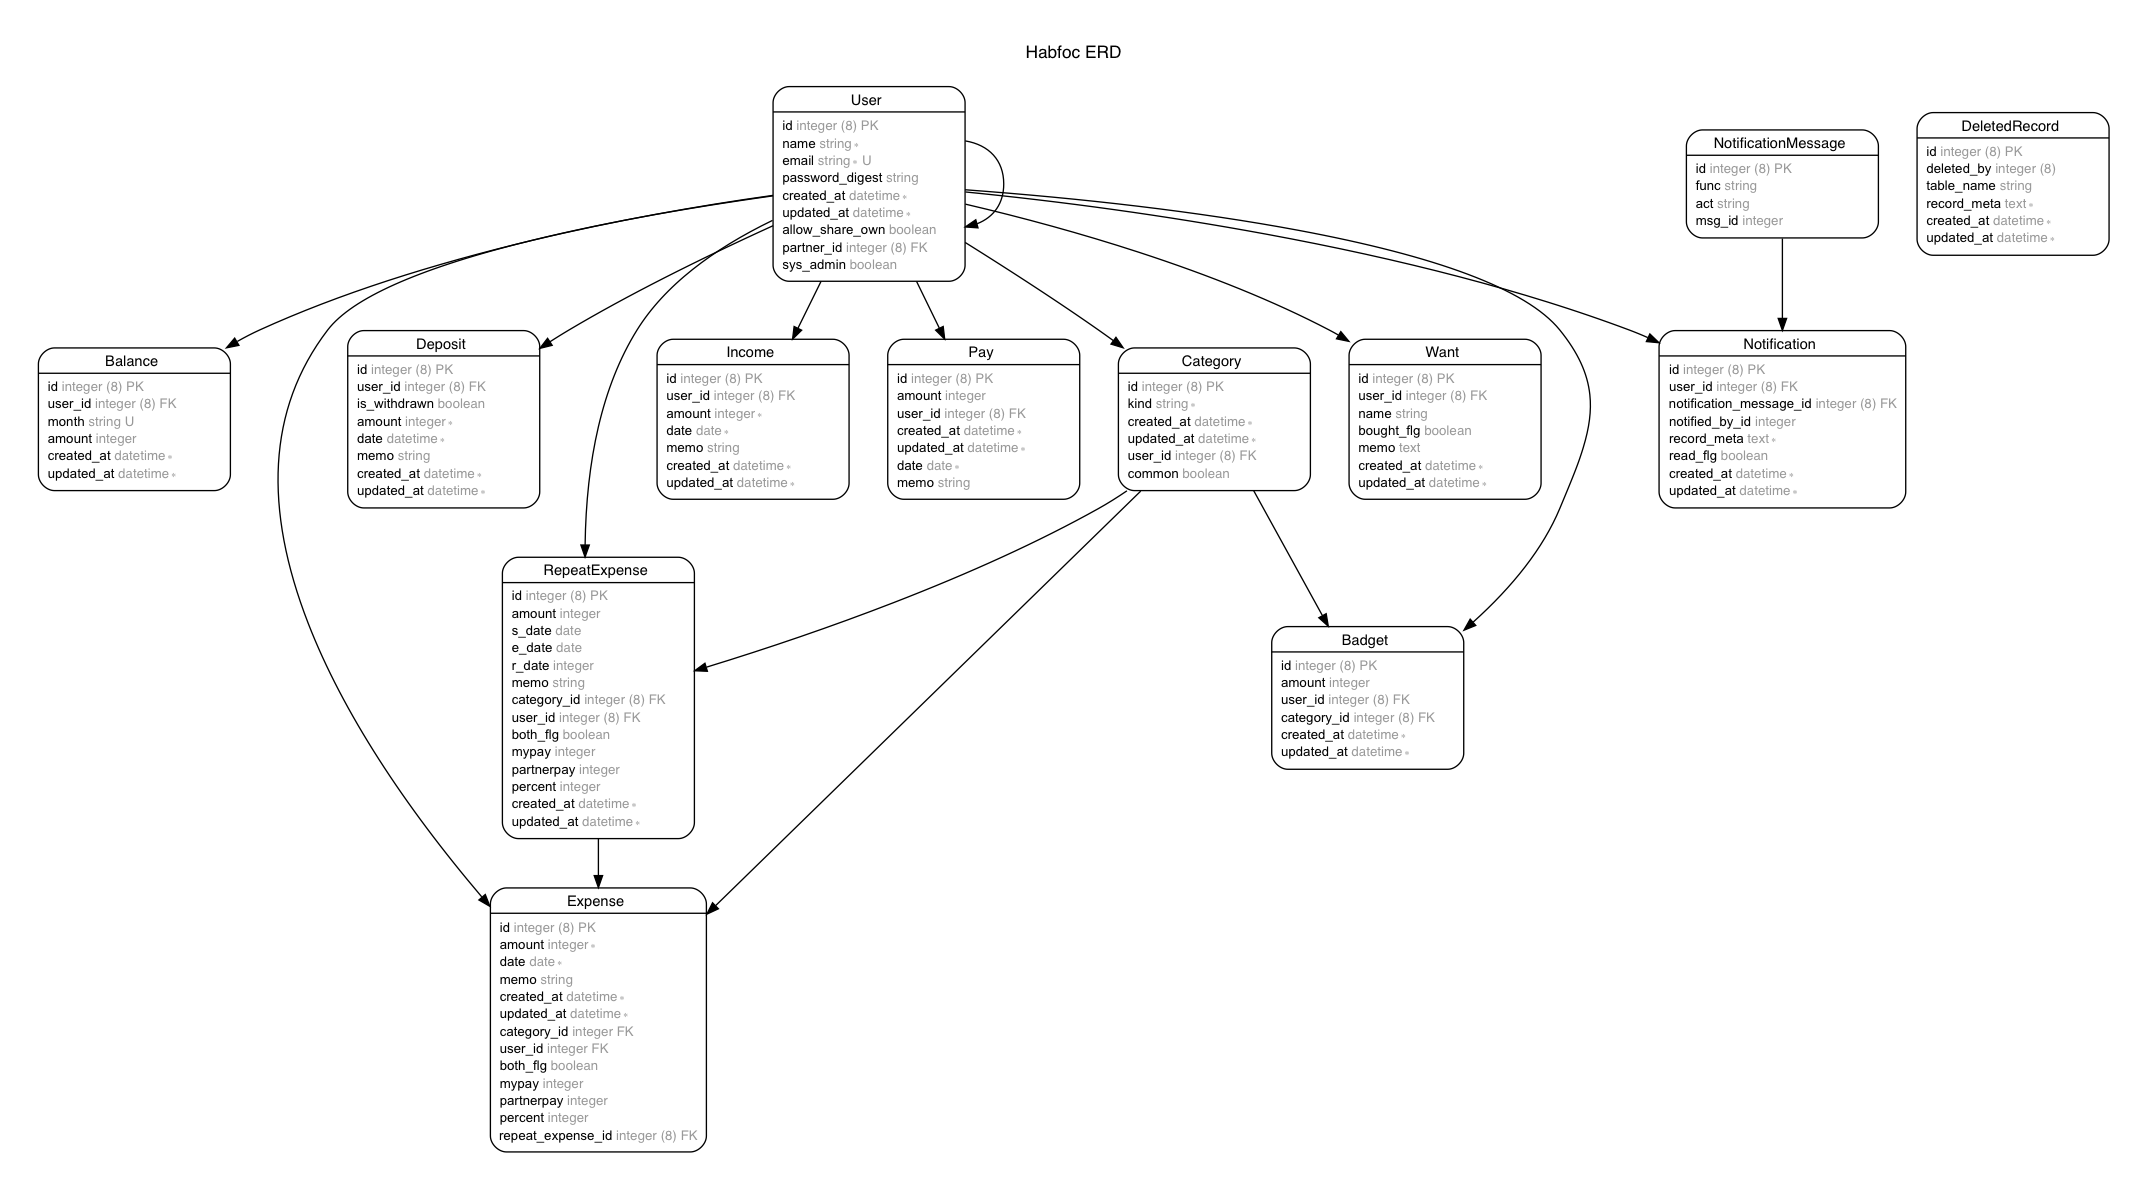
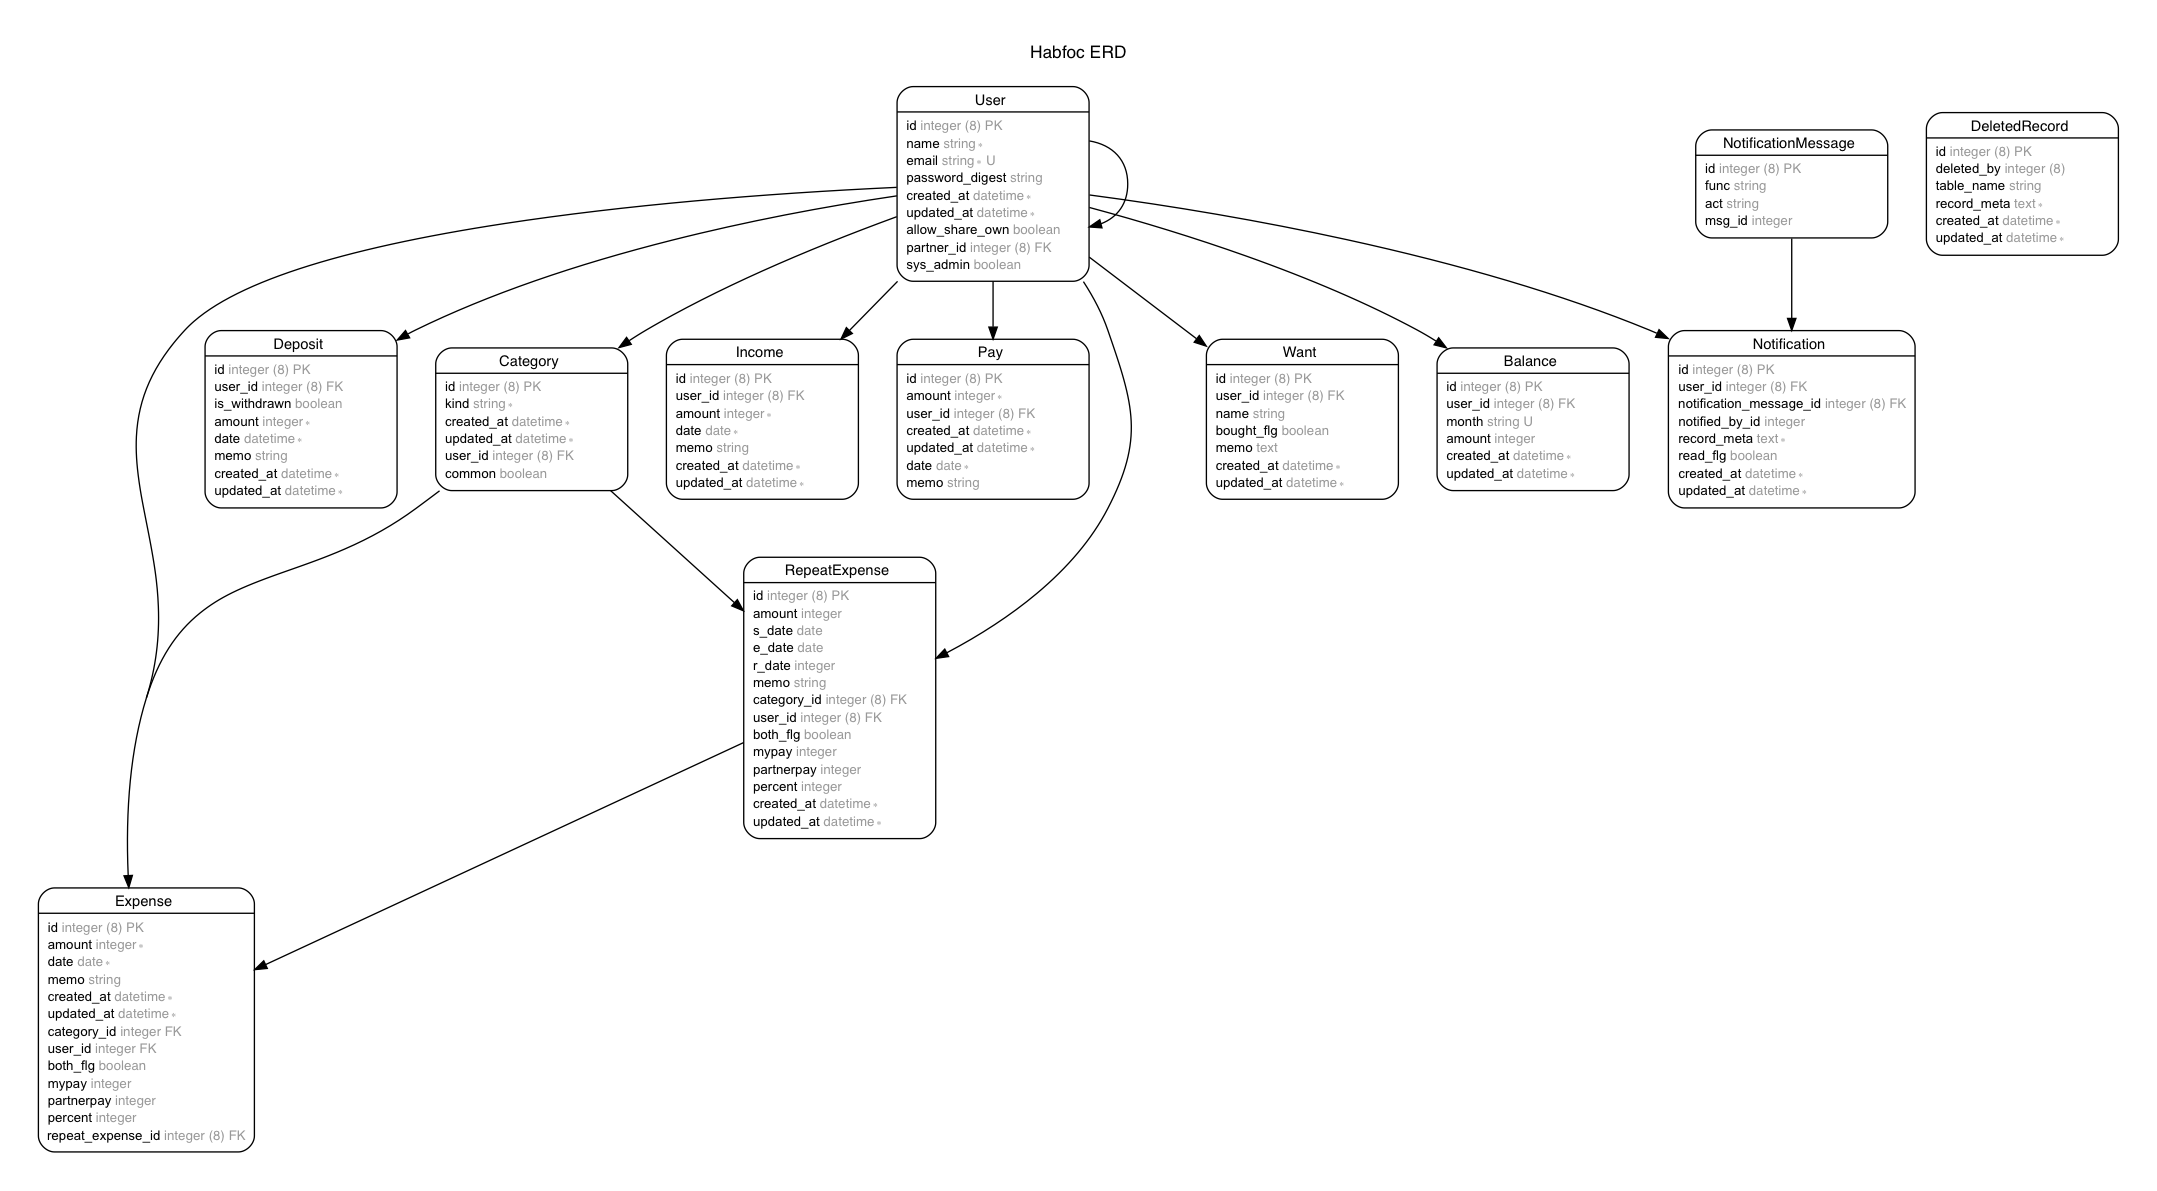
budgetにリネーム Closes #134

diff --git a/db/schema.rb b/db/schema.rb
@@ -10,20 +10,10 @@
 #
 # It's strongly recommended that you check this file into your version control system.
 
-ActiveRecord::Schema.define(version: 2019_04_06_000013) do
+ActiveRecord::Schema.define(version: 2019_04_21_130214) do
 
   # These are extensions that must be enabled in order to support this database
   enable_extension "plpgsql"
-
-  create_table "badgets", force: :cascade do |t|
-    t.integer "amount"
-    t.bigint "user_id"
-    t.bigint "category_id"
-    t.datetime "created_at", null: false
-    t.datetime "updated_at", null: false
-    t.index ["category_id"], name: "index_badgets_on_category_id"
-    t.index ["user_id"], name: "index_badgets_on_user_id"
-  end
 
   create_table "balances", force: :cascade do |t|
     t.bigint "user_id"
@@ -33,6 +23,16 @@ ActiveRecord::Schema.define(version: 2019_04_06_000013) do
     t.datetime "updated_at", null: false
     t.index ["user_id", "month"], name: "index_balances_on_user_id_and_month", unique: true
     t.index ["user_id"], name: "index_balances_on_user_id"
+  end
+
+  create_table "budgets", force: :cascade do |t|
+    t.integer "amount"
+    t.bigint "user_id"
+    t.bigint "category_id"
+    t.datetime "created_at", null: false
+    t.datetime "updated_at", null: false
+    t.index ["category_id"], name: "index_budgets_on_category_id"
+    t.index ["user_id"], name: "index_budgets_on_user_id"
   end
 
   create_table "categories", force: :cascade do |t|
@@ -160,9 +160,9 @@ ActiveRecord::Schema.define(version: 2019_04_06_000013) do
     t.index ["user_id"], name: "index_wants_on_user_id"
   end
 
-  add_foreign_key "badgets", "categories"
-  add_foreign_key "badgets", "users"
   add_foreign_key "balances", "users"
+  add_foreign_key "budgets", "categories"
+  add_foreign_key "budgets", "users"
   add_foreign_key "categories", "users"
   add_foreign_key "deleted_records", "users", column: "deleted_by"
   add_foreign_key "deposits", "users"

diff --git a/app/controllers/budgets_controller.rb b/app/controllers/budgets_controller.rb
@@ -1,0 +1,61 @@
+class BudgetsController < ApplicationController
+  before_action :set_all_categories, only:[:new, :edit]
+  before_action :set_budget, only: [:edit, :update]
+
+  def index
+    @categories = current_user.categories.or(partner.categories.common_t).includes(:budgets).order(:id)
+    @budgets = current_user.budgets.order(category_id: :asc)
+  end
+
+  def new
+    @budget = Budget.new
+  end
+
+  def create
+    @budget = current_user.budgets.new(budget_params)
+    check = Budget.find_by(user_id: current_user.id, category_id: params[:category_id])
+    if check.present?
+      @budget.errors[:base] << "同じカテゴリに２つの予算を設定できません。予算を編集してください。"
+      set_all_categories
+      render 'new'
+    end
+
+    if @budget.save
+      find_budget_category
+      redirect_to budgets_path, notice: "#{@category.kind}の予算を#{@budget.amount}円に設定しました"
+    else
+      set_all_categories
+      render 'new'
+    end
+  end
+
+  def edit
+  end
+
+  def update
+    if @budget.update(budget_params)
+      find_budget_category
+      redirect_to budgets_path, notice: "#{@category.kind}の予算を#{@budget.amount}円に設定しました"
+    else
+      set_all_categories
+      render 'edit'
+    end
+  end
+
+private
+  def set_all_categories
+    @categories = current_user.categories.or(partner.categories.common_t)
+  end
+
+  def budget_params
+    params.require(:budget).permit(:category_id, :amount)
+  end
+
+  def set_budget
+    @budget = Budget.find(params[:id])
+  end
+
+  def find_budget_category
+    @category = Category.find(@budget.category_id)
+  end
+end

diff --git a/app/helpers/expenses_helper.rb b/app/helpers/expenses_helper.rb
@@ -63,8 +63,8 @@ module ExpensesHelper
   end
 
   # カテゴリ別予算残高の表示順を指定する
-  def ordered_badget(user)
-    user.badgets.order(category_id: :asc)
+  def ordered_budget(user)
+    user.budgets.order(category_id: :asc)
   end
 
   # カテゴリ別支出合計を計算
@@ -84,14 +84,14 @@ module ExpensesHelper
   end
 
   # カテゴリ別予算残高の計算
-  def category_balance(badget, category, user_expenses, partner_expenses)
+  def category_balance(budget, category, user_expenses, partner_expenses)
     # そのカテゴリの自分の出費の合計
     user_category_expenses_sum = user_expenses.both_f.where(category_id: category.id).sum(:amount)
     # 二人の出費の内、そのカテゴリの自分の払う金額の合計
     mypays_sum_of_both = user_expenses.both_t.where(category_id: category.id).sum(:mypay)
     # 相手が記入した二人の出費の内、そのカテゴリの自分の払う金額の合計
     partnerpays_sum_of_both = partner_expenses.where(category_id: category.id).sum(:partnerpay)
-    badget.amount.to_i - user_category_expenses_sum - mypays_sum_of_both - partnerpays_sum_of_both
+    budget.amount.to_i - user_category_expenses_sum - mypays_sum_of_both - partnerpays_sum_of_both
   end
 
 end

diff --git a/app/helpers/budgets_helper.rb b/app/helpers/budgets_helper.rb
@@ -1,4 +1,4 @@
-module BadgetsHelper
+module BudgetsHelper
   # 予算が未入力のカテゴリを抽出
   def make_left_categories(categories)
     all_categories = Hash.new
@@ -6,17 +6,17 @@ module BadgetsHelper
       all_categories[category.kind] = category.id
     end
     left_categories = all_categories
-    unless Badget.find_by(user_id: current_user.id).present?
+    unless Budget.find_by(user_id: current_user.id).present?
       return left_categories
     end
-    badgets = current_user.badgets
-    badget_categories = Array.new
-    badgets.each do |badget|
-      category = badget.category.kind
-      badget_categories << category
+    budgets = current_user.budgets
+    budget_categories = Array.new
+    budgets.each do |budget|
+      category = budget.category.kind
+      budget_categories << category
     end
 
-    badget_categories.each do |category_kind|
+    budget_categories.each do |category_kind|
       left_categories.delete(category_kind)
     end
 

diff --git a/db/seeds.rb b/db/seeds.rb
@@ -13,7 +13,7 @@ end
 
 # tables = [Category, RepeatExpense, Expense]
 puts "starding - #{__FILE__}"
-tables = [Category, Badget, RepeatExpense, Expense, Pay, Want, NotificationMessage, Notification, DeletedRecord]
+tables = [Category, Budget, RepeatExpense, Expense, Pay, Want, NotificationMessage, Notification, DeletedRecord]
 
 tables.map(&:table_name).reverse.each do |table|
   delete_all_and_reset_pk_sequence(table)
@@ -40,9 +40,9 @@ end
 #   Category.create!(data.to_hash)
 # end
 #
-# csv_data = CSV.read('db/badgets.csv', headers: true)
+# csv_data = CSV.read('db/budgets.csv', headers: true)
 # csv_data.each do |data|
-#   Badget.create!(data.to_hash)
+#   Budget.create!(data.to_hash)
 # end
 #
 # csv_data = CSV.read('db/repeat_expenses.csv', headers: true)

diff --git a/app/models/budget.rb b/app/models/budget.rb
@@ -1,6 +1,6 @@
 # ## Schema Information
 #
-# Table name: `badgets`
+# Table name: `budgets`
 #
 # ### Columns
 #
@@ -15,9 +15,9 @@
 #
 # ### Indexes
 #
-# * `index_badgets_on_category_id`:
+# * `index_budgets_on_category_id`:
 #     * **`category_id`**
-# * `index_badgets_on_user_id`:
+# * `index_budgets_on_user_id`:
 #     * **`user_id`**
 #
 # ### Foreign Keys
@@ -28,7 +28,7 @@
 #     * **`user_id => users.id`**
 #
 
-class Badget < ApplicationRecord
+class Budget < ApplicationRecord
   belongs_to :user
   belongs_to :category
 

diff --git a/app/models/user.rb b/app/models/user.rb
@@ -43,7 +43,7 @@ class User < ApplicationRecord
   belongs_to :partner, class_name: 'User', optional: true
   has_many :expenses, dependent: :destroy
   has_many :repeat_expenses, dependent: :destroy
-  has_many :badgets, dependent: :destroy
+  has_many :budgets, dependent: :destroy
   has_many :categories, dependent: :destroy
   has_many :pays, dependent: :destroy
   has_many :wants, dependent: :destroy

diff --git a/app/controllers/admin_controller.rb b/app/controllers/admin_controller.rb
@@ -40,7 +40,7 @@ class AdminController < ApplicationController
 
   def delete_all_data
     current_user.notifications.try(:destroy_all)
-    current_user.badgets.try(:destroy_all)
+    current_user.budgets.try(:destroy_all)
     current_user.wants.try(:destroy_all)
     current_user.pays.try(:destroy_all)
     current_user.deposits.try(:destroy_all)

diff --git a/db/migrate/20180204083633_create_badgets.rb b/db/migrate/20180204083633_create_badgets.rb
@@ -1,6 +1,6 @@
-class CreateBadgets < ActiveRecord::Migration[5.1]
+class Createbudgets < ActiveRecord::Migration[5.1]
   def change
-    create_table :badgets do |t|
+    create_table :budgets do |t|
       t.integer :amount
       t.references :user, foreign_key: true
       t.references :category, foreign_key: true

diff --git a/app/models/category.rb b/app/models/category.rb
@@ -26,7 +26,7 @@
 
 class Category < ApplicationRecord
   belongs_to :user
-  has_many :badgets, dependent: :destroy
+  has_many :budgets, dependent: :destroy
   has_many :expenses
 
   scope :oneself, -> {where(common: false)}

diff --git a/config/routes.rb b/config/routes.rb
@@ -42,7 +42,7 @@ Rails.application.routes.draw do
       get :common
     end
   end
-  resources :badgets
+  resources :budgets
   resources :pays
   resources :wants do
     get :change_bought_button, on: :member

diff --git a/db/migrate/20190421130214_rename_badgets_to_budgets.rb b/db/migrate/20190421130214_rename_badgets_to_budgets.rb
@@ -1,0 +1,5 @@
+class RenameBadgetsToBudgets < ActiveRecord::Migration[5.2]
+  def change
+    rename_table :budgets, :budgets
+  end
+end
